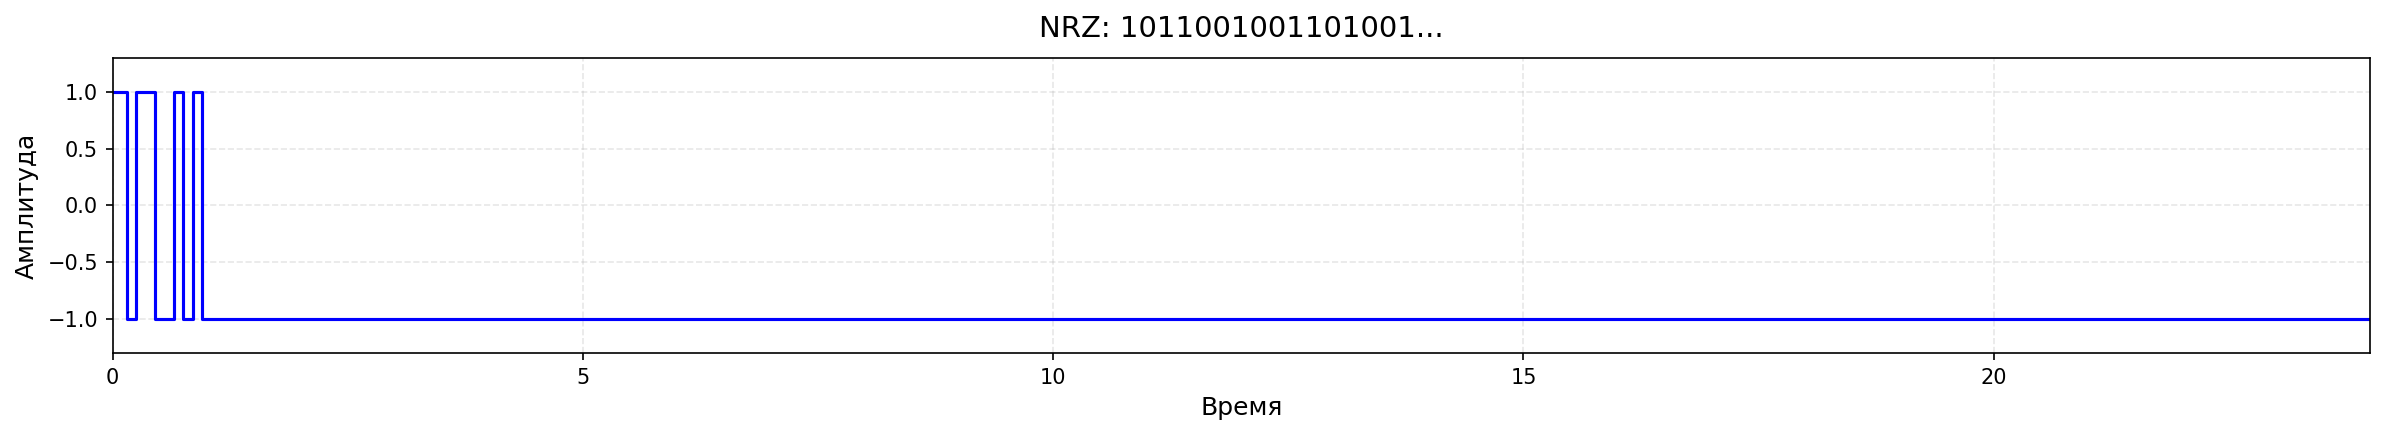
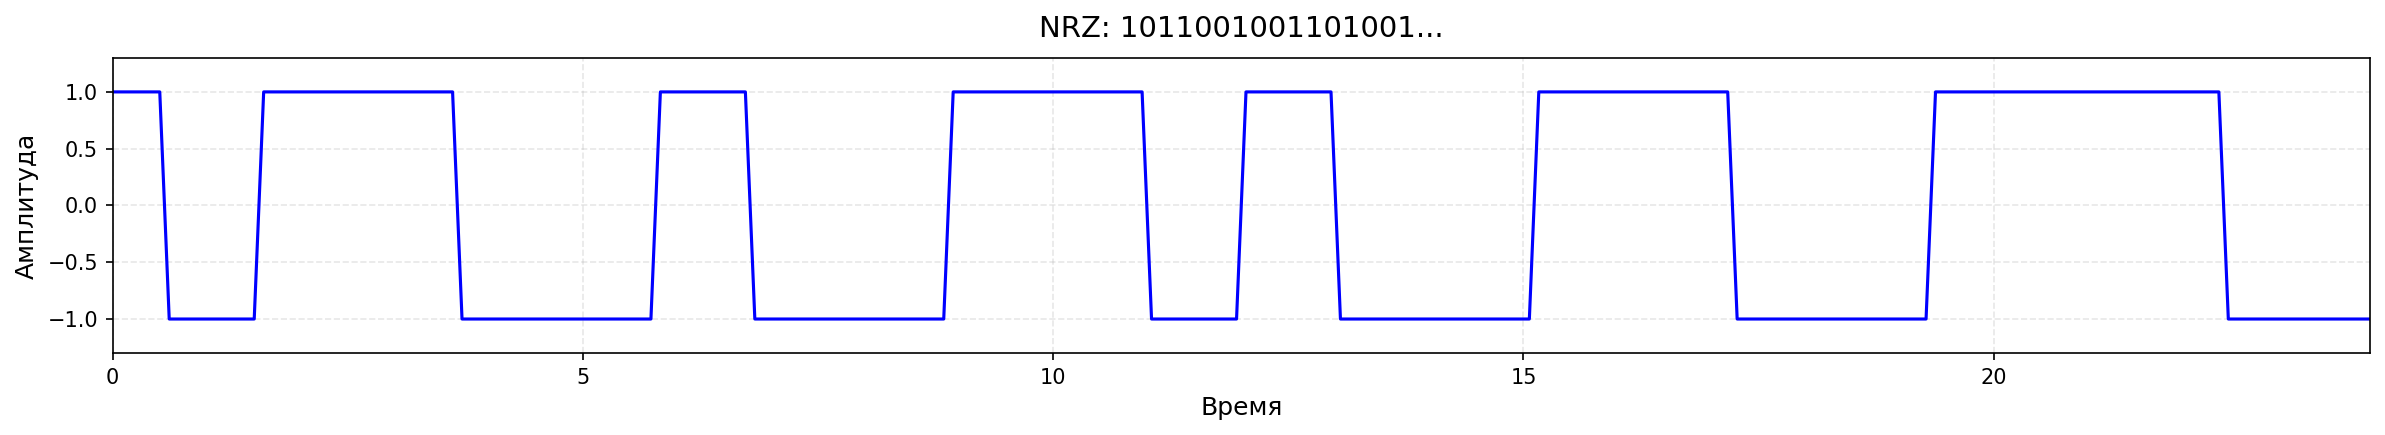
fix bad plotting in reports

diff --git a/signal_plotter/report_generator.py b/signal_plotter/report_generator.py
@@ -4,6 +4,7 @@
 
 import os
 from pathlib import Path
+import numpy as np
 
 from signal_plotter.encodings import (
     bytes_to_bits,
@@ -105,11 +106,11 @@ def generate_report(
 
     plotter = SignalPlotter(figsize=(16, 3), dpi=150)
 
-    def make_plot(signal_array):
+    def make_plot(sig, duration):
         def wrapper(t_arr):
-            indices = (t_arr * (len(signal_array) - 1)).astype(int)
-            indices = indices.clip(0, len(signal_array) - 1)
-            return signal_array[indices]
+            indices = np.round(t_arr / duration * (len(sig) - 1)).astype(int)
+            indices = np.clip(indices, 0, len(sig) - 1)
+            return sig[indices]
 
         return wrapper
 
@@ -134,16 +135,8 @@ def generate_report(
 
         signal_arr = signal
 
-        def make_plot(sig):
-            def plot_func(t):
-                indices = (t * (len(sig) - 1)).astype(int)
-                indices = indices.clip(0, len(sig) - 1)
-                return sig[indices]
-
-            return plot_func
-
         fig = plotter.plot_signal(
-            signal_func=make_plot(signal),
+            signal_func=make_plot(signal, len(signal)),
             num_samples=len(signal) * 10,
             title=f"{method_name}: {format_bits(bits)[:16]}...",
             y_range=(-1.3, 1.3),
@@ -203,7 +196,7 @@ def generate_report(
     signal_4b5b = nrz_encode(encoded_bits)
 
     fig = plotter.plot_signal(
-        signal_func=make_plot(signal_4b5b),
+        signal_func=make_plot(signal_4b5b, len(signal_4b5b)),
         num_samples=len(signal_4b5b) * 10,
         title=f"4B/5B: {format_bits(encoded_bits)[:20]}...",
         y_range=(-1.3, 1.3),
@@ -250,7 +243,7 @@ def generate_report(
     signal_scrambled = nrz_encode(scrambled_bits)
 
     fig = plotter.plot_signal(
-        signal_func=make_plot(signal_scrambled),
+        signal_func=make_plot(signal_scrambled, len(signal_scrambled)),
         num_samples=len(signal_scrambled) * 10,
         title=f"Scrambled NRZ: {format_bits(scrambled_bits)[:20]}...",
         y_range=(-1.3, 1.3),
